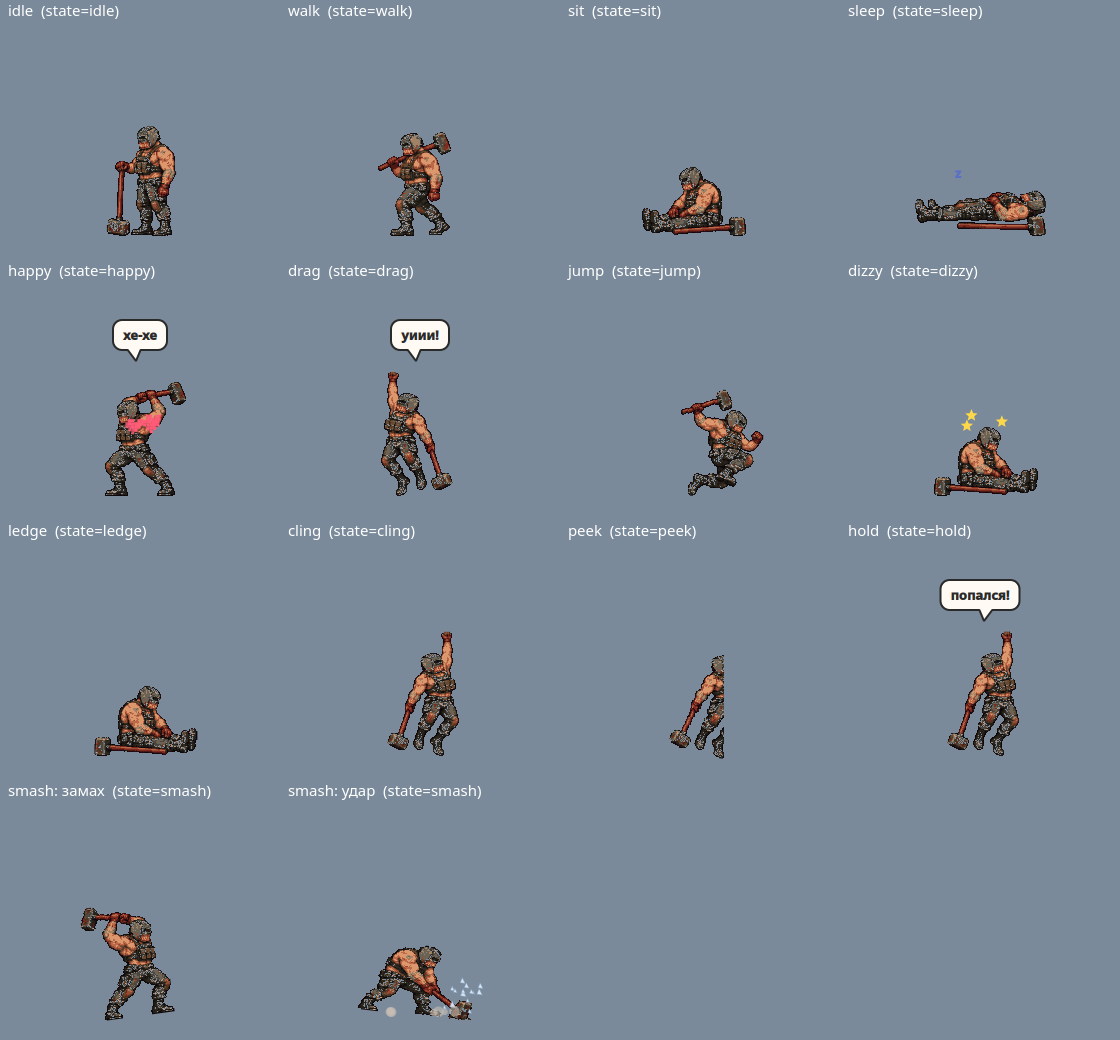
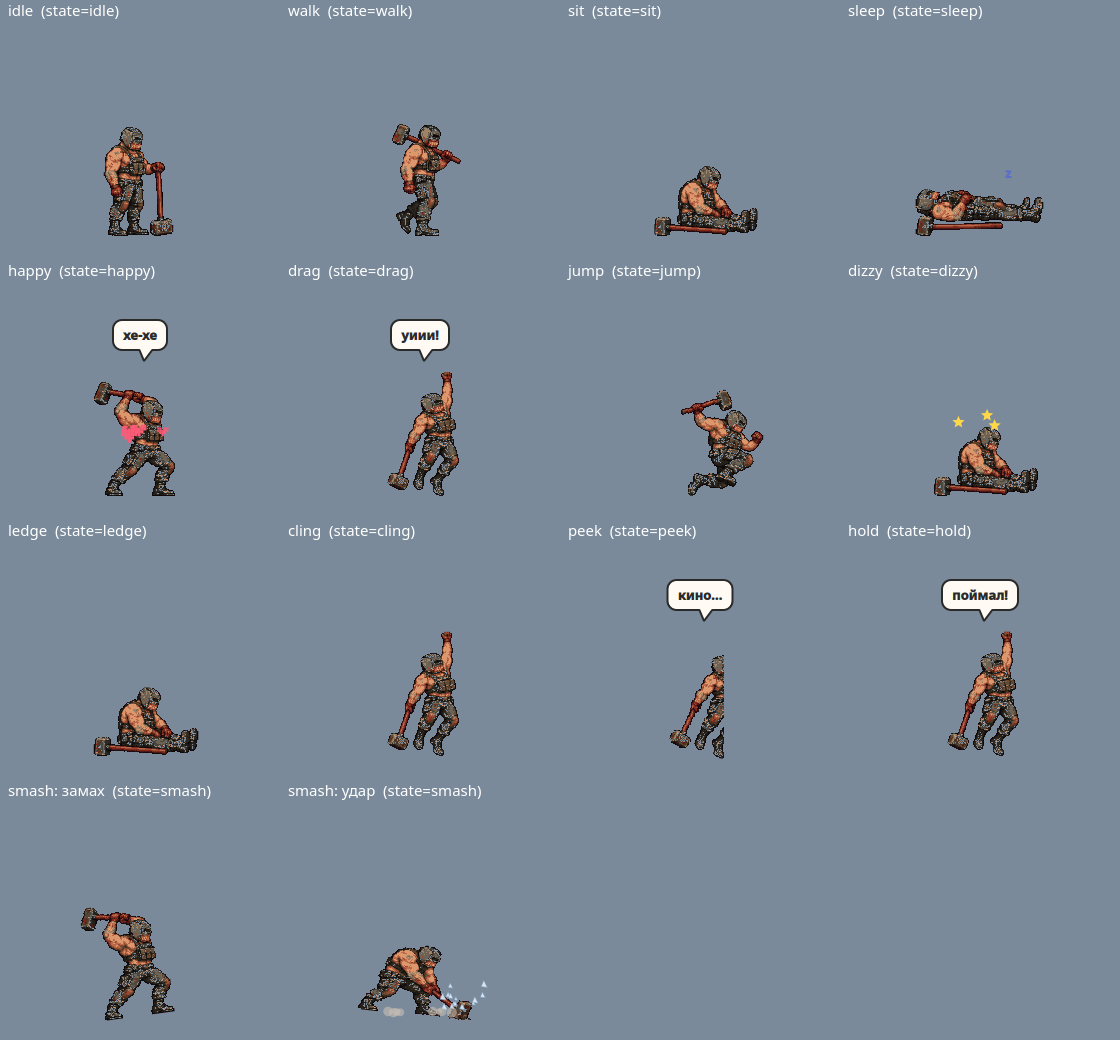
Тагилла: ходьба с чередованием ног вместо приставного шага
GPT дважды рисовал впереди одну и ту же (ближнюю, светлую) ногу во всех
кадрах — выходил приставной шаг. Теперь цикл из 8 кадров: 4 кадра шага
ближней ногой (шаг, перенос веса, толчок, проход) + те же 4 кадра с
переставленными тонами светлой и тёмной ноги — шаг дальней ногой.
Контур и ботинки при этом не трогаем. Темп — 13 px пути на кадр.

diff --git a/mascot.py b/mascot.py
@@ -146,7 +146,7 @@ class Skin:
 SKINS = {
     "claude": Skin("claude", "Клод", 64, QRect(AX - 60, AY - 95, 120, 118), {}),
     "tagilla": Skin("tagilla", "Тагилла", 128, QRect(AX - 100, AY - 135, 200, 158),
-                    TAGILLA_LINES, speed=1.35, smashes=True, bubble_dy=146, stride=15),
+                    TAGILLA_LINES, speed=1.35, smashes=True, bubble_dy=146, stride=13),
 }
 
 BROWSERS = ("firefox", "chrom", "brave", "vivaldi", "opera", "edge", "librewolf", "zen",

diff --git a/CLAUDE.md b/CLAUDE.md
@@ -86,7 +86,7 @@ powershell -ExecutionPolicy Bypass -File install.ps1
 - Тагилла: **не рисуется кодом**, а целиком состоит из кадров `assets/tagilla_frames.png`
   (9 кадров одной полосой, нарисованы GPT) с разметкой `assets/tagilla_frames.json`
   (`имя: [x, y, ширина, высота, x опоры]`; у ходьбы опора — по корпусу, чтобы тело не дёргалось). Какой кадр показать —
-  `tagilla_frame()`: idle, walk1…walk6 (цикл ходьбы, темп — `skin.stride` px на кадр), windup/strike (замах/удар), sit, sleep, hang
+  `tagilla_frame()`: idle, walk1…walk8 (цикл ходьбы, темп — `skin.stride` px на кадр; walk5–8 — это walk1–4 с переставленными местами светлой и тёмной ногой: генераторы картинок упорно рисуют впереди одну и ту же ногу, и выходит «приставной шаг»), windup/strike (замах/удар), sit, sleep, hang
   (висит на руке), jump. Куда в кадре «удар» приходится кувалда — `T_STRIKE`.
 - `self.eye_mode(st)` говорит, какие сейчас глаза: open / closed / happy / surprised / dizzy.
 
